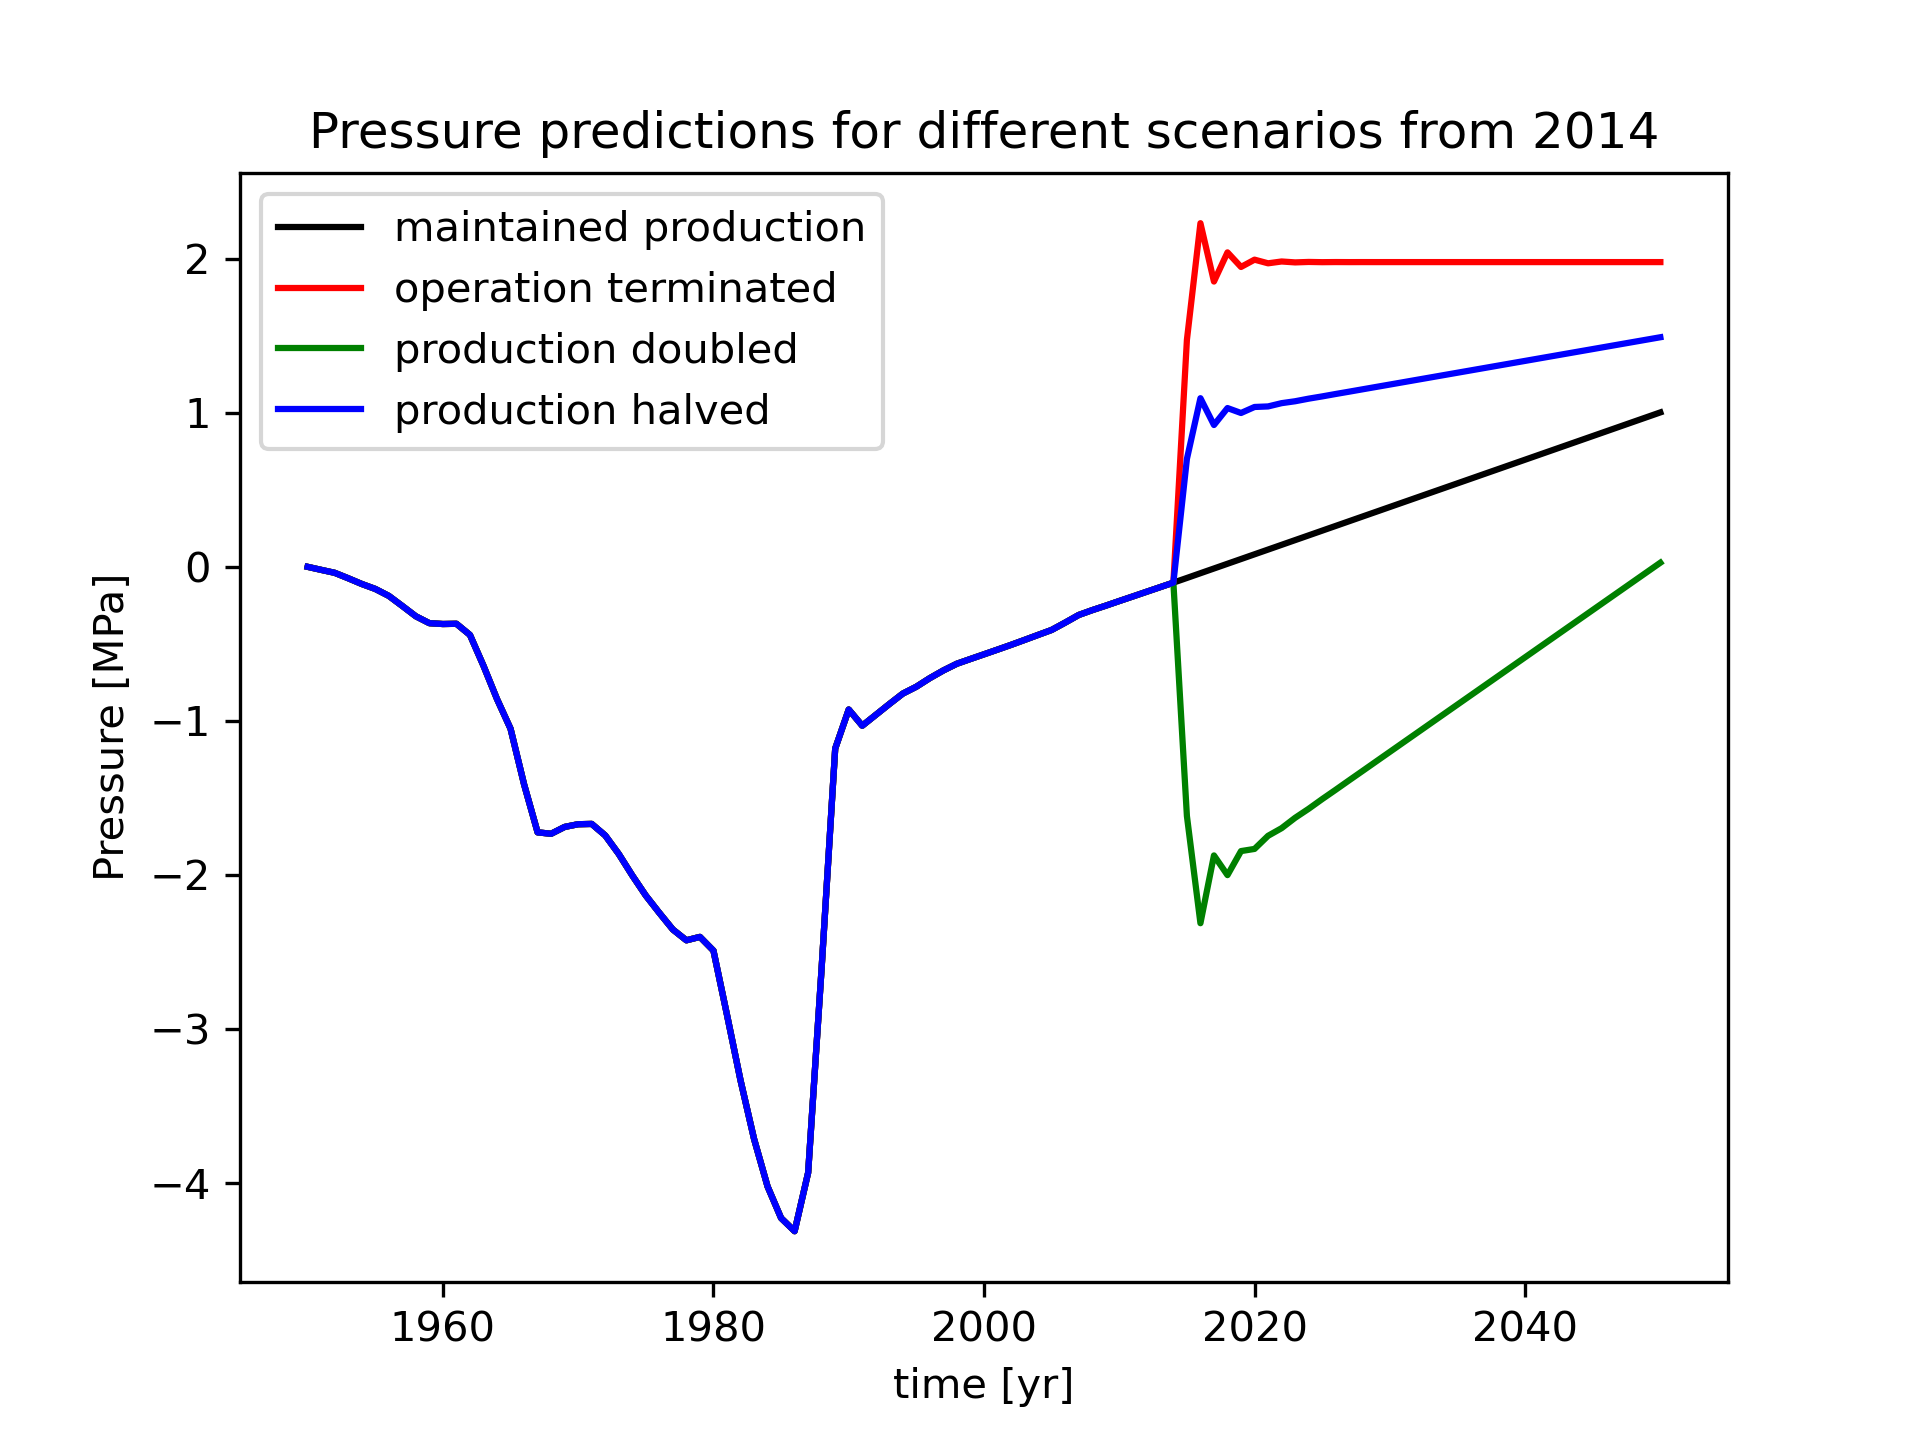
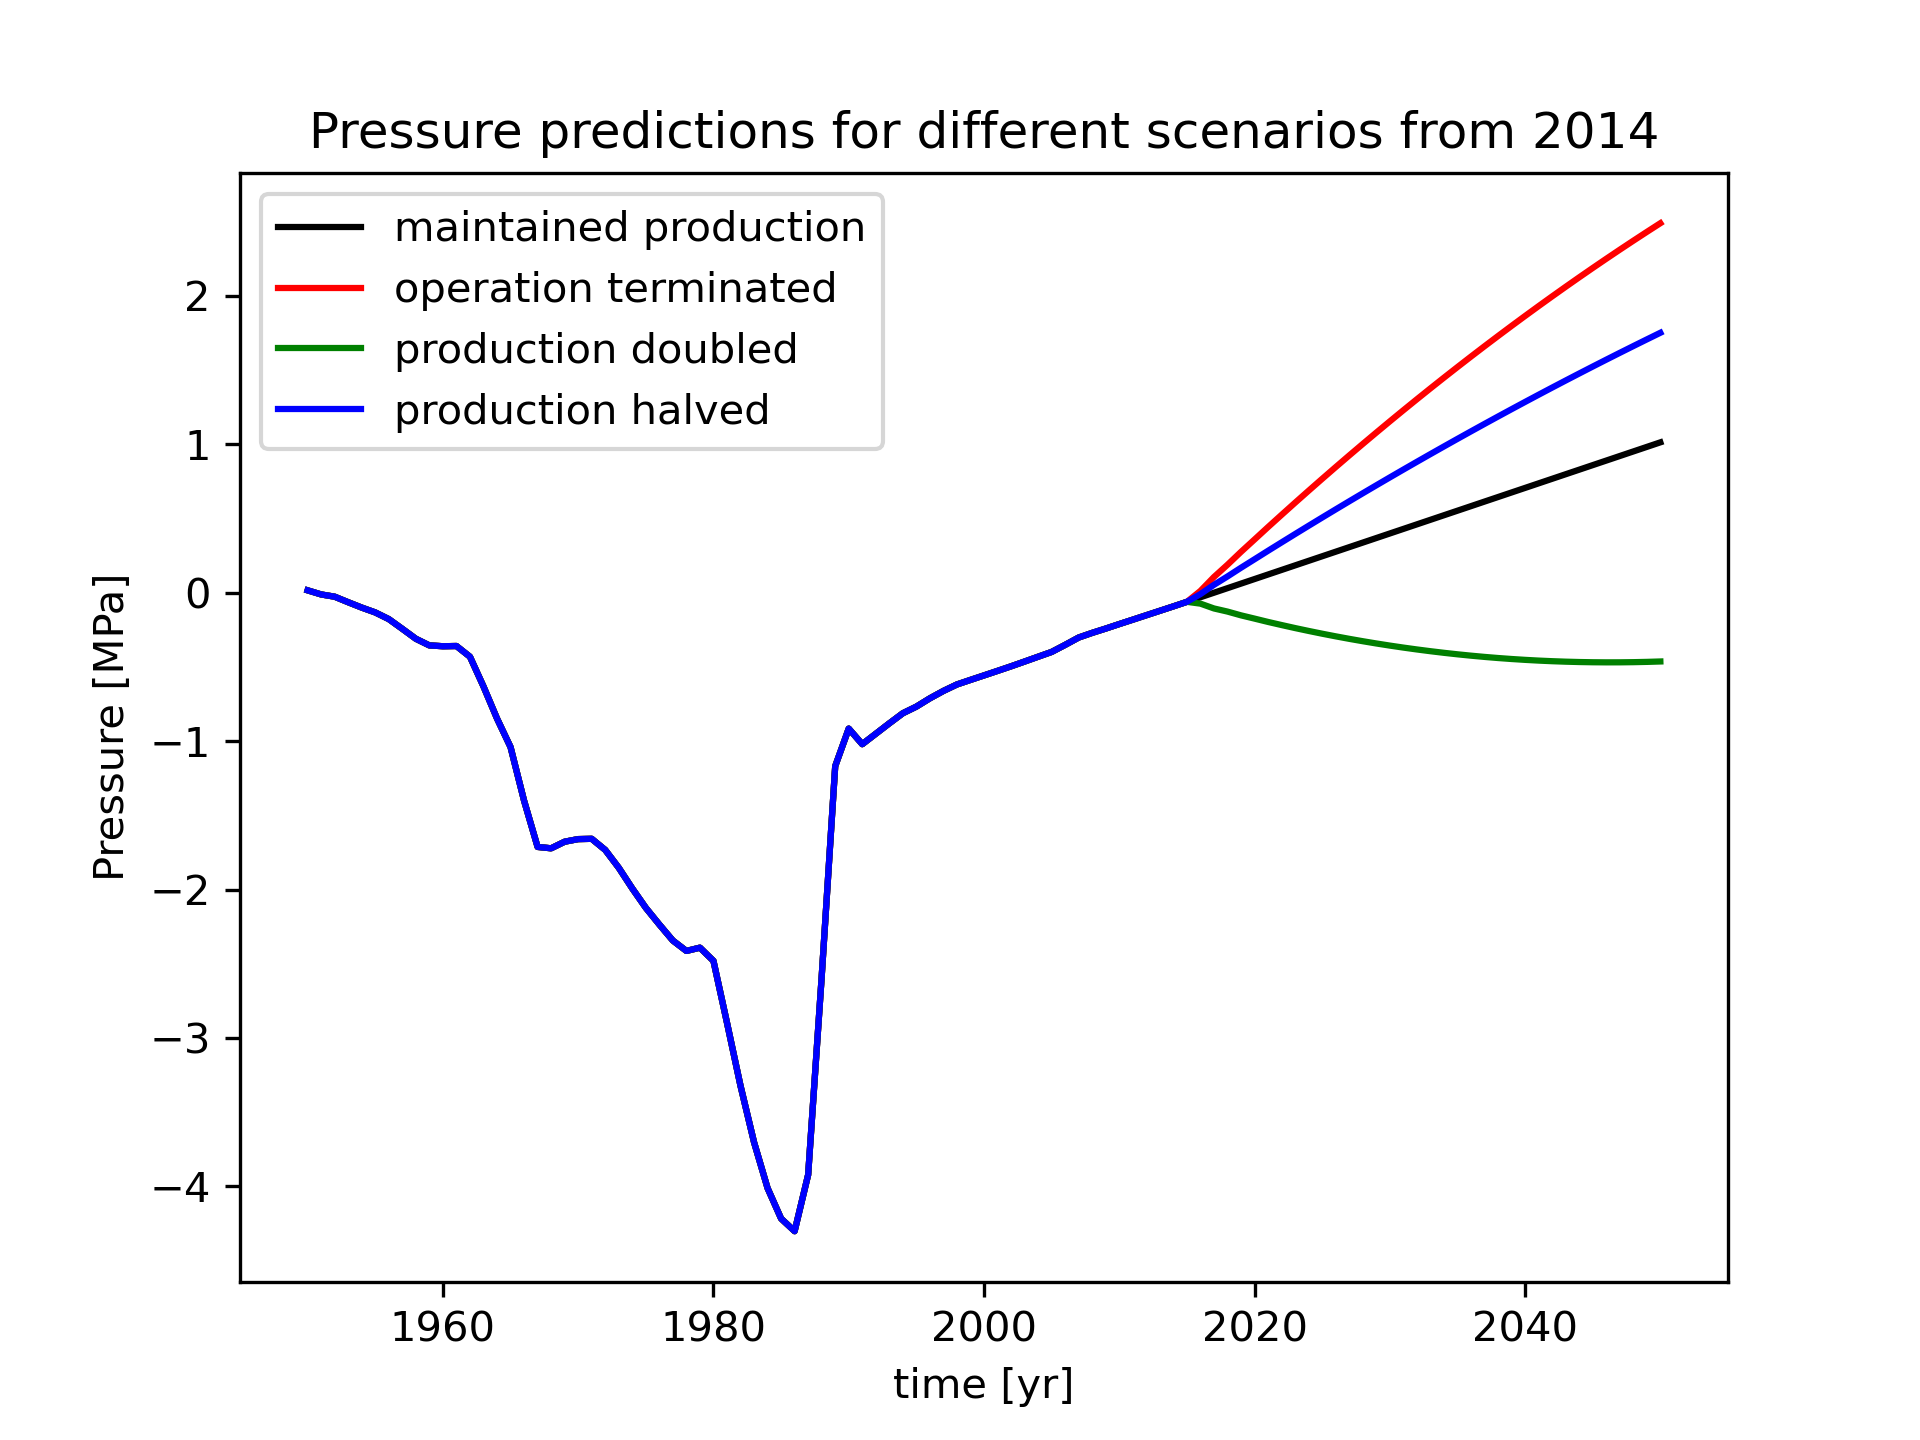
debugging model_fitting file

diff --git a/model_fitting.py b/model_fitting.py
@@ -127,15 +127,24 @@ def solve_pressure_ode(f,t, dt, P0, indicator, pars):
     elif (indicator == 'STOP'):
         q = interpolate_q_total(t)
         q = q/86.4
-        q[65:101] = 0
+        # q[65:101] = 0
+        a = q[64]/36
+        for i in range(65,101):
+            q[i] = q[64]-a*(i-65)
     elif (indicator == 'DOUBLE'):
         q = interpolate_q_total(t)
         q = q/86.4
-        q[65:101] = q[64]*2
+        # q[65:101] = q[64]*2
+        a = q[64]/36
+        for i in range(65,101):
+            q[i] = q[64]+a*(i-65)
     elif (indicator == 'HALF'):
         q = interpolate_q_total(t)
         q = q/86.4
-        q[65:101] = q[64]/2
+        # q[65:101] = q[64]/2
+        a = q[64]/72
+        for i in range(65,101):
+            q[i] = q[64]-a*(i-65)
     dqdt = np.gradient(q)
 
     nt = int(np.ceil((t[-1]-t[0])/dt))	#calculating number of steps	
@@ -461,5 +470,10 @@ if __name__ == "__main__":
 
 
     pressure_forecast()
-    # t = np.linspace(1950,2050,101)
-    # plot_pressure_model(t,solve_pressure_ode(pressure_ode_model, t, dt, x0, 'SAME', pars=[ap, bp, cp])[1])
+    t = np.linspace(1950,2050,101)
+    y = interpolate_q_total(t)
+    a = y[64]/36
+    for i in range(65,101):
+        y[i] = y[64]-a*(i-65)
+    # plot_pressure_model(t,solve_pressure_ode(pressure_ode_model, t, dt, x0, 'STOP', pars=[ap, bp, cp])[1])
+    # plot_pressure_model(t,y)
